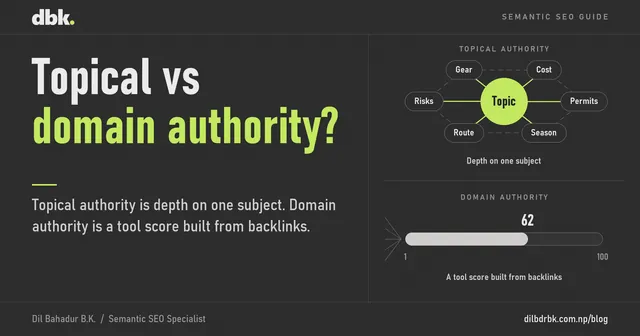
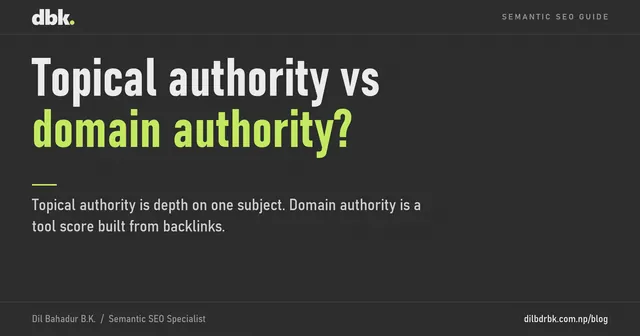
Topical authority post: text-only cover, hybrid summary intro

diff --git a/blog/topical-authority-vs-domain-authority/index.html b/blog/topical-authority-vs-domain-authority/index.html
@@ -214,7 +214,7 @@
     "height": 630
    },
    "inLanguage": "en",
-   "wordCount": 4806,
+   "wordCount": 4878,
    "timeRequired": "PT21M",
    "articleSection": "Topical Authority",
    "keywords": [
@@ -385,7 +385,7 @@
 </section>
 <section class="frame post-cover-frame">
   <div class="body">
-    <figure class="post-cover"><picture><source type="image/webp" srcset="/assets/img/blog/topical-authority-vs-domain-authority.webp?v=c0f706cd"><img src="/assets/img/blog/topical-authority-vs-domain-authority.jpg?v=86f2752e" width="1200" height="630" alt="Topical authority vs domain authority: one website covers a single topic in depth with connected pages, while a domain score rates the whole site by its backlinks." fetchpriority="high"></picture></figure>
+    <figure class="post-cover"><picture><source type="image/webp" srcset="/assets/img/blog/topical-authority-vs-domain-authority.webp?v=36b13cbe"><img src="/assets/img/blog/topical-authority-vs-domain-authority.jpg?v=6b294fbb" width="1200" height="630" alt="Topical authority vs domain authority: one website covers a single topic in depth with connected pages, while a domain score rates the whole site by its backlinks." fetchpriority="high"></picture></figure>
   </div>
 </section>
 <section class="frame post-main">
@@ -403,8 +403,9 @@
     </aside>
     <div class="prose post-body">
 <div class="post-answer"><p class="post-answer-label">Short answer</p><p>Topical authority is the depth and accuracy with which a website covers one subject, and domain authority is a score from 1 to 100 that SEO tools, such as Moz, calculate mainly from a site's backlinks. Google does not use Moz's Domain Authority or any other third-party score. Google does use links through PageRank and says that site-wide signals contribute to how it understands pages, so a site that ranks well needs both topical depth and relevant links.</p></div>
-<p>Moz introduced Domain Authority as a way to predict how likely a website is to rank compared with its competitors, and Ahrefs, Semrush and Majestic sell similar scores. Topical authority came from the semantic SEO field. Koray Tugberk Gubur of Holistic SEO defines it as a methodology to rank higher by covering connected topics and the queries they imply.</p>
-<p>This guide compares topical authority and domain authority from the core difference and the way each one is measured to Google's own statements, information retrieval research, the 2024 leaked documentation, a 7-step method and the measurements that matter. Google's documentation, the research papers and the SEO tool makers point the same way: no single authority score decides rankings, links still carry weight, and coverage of one topic makes a site relevant for that topic. Each part separates what Google states from what research shows and from what SEO practitioners interpret.</p>
+<p>Domain Authority is Moz's score from 1 to 100, built mainly from the number and quality of linking root domains, and Ahrefs Domain Rating, Semrush Authority Score and Majestic Trust Flow rate link strength the same way. Topical authority has no score. Holistic SEO defines it as a methodology to rank higher by covering connected topics and the queries they imply, and practitioners describe it through topical coverage and historical data.</p>
+<p>Google stated in 2016 and 2019 that it has no website authority score and does not use Domain Authority, yet PageRank remains one of its core ranking systems and site-wide signals contribute to how it understands pages. Google's topic authority system surfaces expert sources for news by topic, research from 1999 to 2002 found that authority computed per topic ranked pages more accurately than one global score, and the 2024 leaked documentation lists site-level attributes for topic focus, such as siteFocusScore.</p>
+<p>Topical depth carries the most weight for specific questions inside a niche, such as permit costs for one trek, and link strength carries more for broad, competitive searches. A site gains from both by planning a topical map, covering it answer-first, linking the pages into one network and earning links from relevant sites, such as trade associations, then tracking impressions across the topic's queries in Search Console.</p>
 <details class="post-toc" open>
 <summary>In this guide</summary>
 <nav aria-label="Table of contents"><ol>

diff --git a/index.html b/index.html
@@ -768,7 +768,7 @@
       <div class="res-panel" id="blog-posts" role="tabpanel" aria-labelledby="res-tab-blog">
         <p class="label res-nojs">Blog</p>
 <ul class="feature-posts">
-<li class="feature-card"><a href="/blog/topical-authority-vs-domain-authority/"><img src="/assets/img/blog/topical-authority-vs-domain-authority.webp?v=c0f706cd" width="1600" height="840" alt="" loading="lazy" decoding="async"><span class="feature-text"><span class="feature-tags"><span>Topical authority</span><span>Domain authority</span><span>Semantic SEO</span></span><span class="feature-meta"><time datetime="2026-10-28">28 October 2026</time><span>21 min read</span></span><span class="feature-title">Topical Authority vs Domain Authority: What Google Uses</span><span class="feature-desc">Topical authority vs domain authority: one is how deeply a site covers a subject, the other an SEO tool score built from backlinks. See what Google uses.</span><span class="feature-more">Read the guide</span></span></a></li>
+<li class="feature-card"><a href="/blog/topical-authority-vs-domain-authority/"><img src="/assets/img/blog/topical-authority-vs-domain-authority.webp?v=36b13cbe" width="1600" height="840" alt="" loading="lazy" decoding="async"><span class="feature-text"><span class="feature-tags"><span>Topical authority</span><span>Domain authority</span><span>Semantic SEO</span></span><span class="feature-meta"><time datetime="2026-10-28">28 October 2026</time><span>21 min read</span></span><span class="feature-title">Topical Authority vs Domain Authority: What Google Uses</span><span class="feature-desc">Topical authority vs domain authority: one is how deeply a site covers a subject, the other an SEO tool score built from backlinks. See what Google uses.</span><span class="feature-more">Read the guide</span></span></a></li>
 <li class="feature-card"><a href="/blog/entity-seo-vs-keyword-seo/"><img src="/assets/img/blog/entity-seo-vs-keyword-seo.webp?v=57fe50bc" width="1600" height="840" alt="" loading="lazy" decoding="async"><span class="feature-text"><span class="feature-tags"><span>Entity SEO</span><span>Keyword research</span><span>AI Overviews</span></span><span class="feature-meta"><time datetime="2026-10-19">19 October 2026</time><span>27 min read</span></span><span class="feature-title">Entity SEO vs Keyword SEO: What Changes and What Stays</span><span class="feature-desc">Entity SEO vs keyword SEO: keywords show how people search, entities show what they mean. See the differences, where each works and how to combine them.</span><span class="feature-more">Read the guide</span></span></a></li>
 <li class="feature-card"><a href="/blog/what-is-entity-seo/"><img src="/assets/img/blog/what-is-entity-seo.webp?v=6ea2b66a" width="1600" height="840" alt="" loading="lazy" decoding="async"><span class="feature-text"><span class="feature-tags"><span>Entity SEO</span><span>Knowledge Graph</span><span>Structured data</span></span><span class="feature-meta"><time datetime="2026-10-14">14 October 2026</time><span>16 min read</span></span><span class="feature-title">What Is Entity SEO? A Practical Guide</span><span class="feature-desc">Entity SEO helps search engines identify the people, places, products and concepts on your site. Learn how it works and how to do it in 6 steps.</span><span class="feature-more">Read the guide</span></span></a></li>
 </ul>

diff --git a/blog/index.html b/blog/index.html
@@ -208,7 +208,7 @@
 <section class="frame">
   <div class="rail"><p class="label"><span class="idx">01</span> Posts</p></div>
   <div class="body">
-<ul class="post-list"><li class="post-row"><a href="/blog/topical-authority-vs-domain-authority/"><img class="post-thumb" src="/assets/img/blog/topical-authority-vs-domain-authority-thumb.webp?v=32210e49" width="640" height="336" alt="" loading="lazy" decoding="async"><span class="post-row-text"><span class="post-row-meta"><time datetime="2026-10-28">28 October 2026</time><span>21 min read</span></span><span class="post-title">Topical Authority vs Domain Authority: What Google Uses</span><span class="post-desc">Topical authority vs domain authority: one is how deeply a site covers a subject, the other an SEO tool score built from backlinks. See what Google uses.</span></span></a></li>
+<ul class="post-list"><li class="post-row"><a href="/blog/topical-authority-vs-domain-authority/"><img class="post-thumb" src="/assets/img/blog/topical-authority-vs-domain-authority-thumb.webp?v=c840f86a" width="640" height="336" alt="" loading="lazy" decoding="async"><span class="post-row-text"><span class="post-row-meta"><time datetime="2026-10-28">28 October 2026</time><span>21 min read</span></span><span class="post-title">Topical Authority vs Domain Authority: What Google Uses</span><span class="post-desc">Topical authority vs domain authority: one is how deeply a site covers a subject, the other an SEO tool score built from backlinks. See what Google uses.</span></span></a></li>
 <li class="post-row"><a href="/blog/entity-seo-vs-keyword-seo/"><img class="post-thumb" src="/assets/img/blog/entity-seo-vs-keyword-seo-thumb.webp?v=ff41d5dc" width="640" height="336" alt="" loading="lazy" decoding="async"><span class="post-row-text"><span class="post-row-meta"><time datetime="2026-10-19">19 October 2026</time><span>27 min read</span></span><span class="post-title">Entity SEO vs Keyword SEO: What Changes and What Stays</span><span class="post-desc">Entity SEO vs keyword SEO: keywords show how people search, entities show what they mean. See the differences, where each works and how to combine them.</span></span></a></li>
 <li class="post-row"><a href="/blog/what-is-entity-seo/"><img class="post-thumb" src="/assets/img/blog/what-is-entity-seo-thumb.webp?v=28dc48ba" width="640" height="336" alt="" loading="lazy" decoding="async"><span class="post-row-text"><span class="post-row-meta"><time datetime="2026-10-14">14 October 2026</time><span>16 min read</span></span><span class="post-title">What Is Entity SEO? A Practical Guide</span><span class="post-desc">Entity SEO helps search engines identify the people, places, products and concepts on your site. Learn how it works and how to do it in 6 steps.</span></span></a></li></ul>
   </div>

diff --git a/_src/make_images.py b/_src/make_images.py
@@ -245,14 +245,15 @@ def pill(d, cx, cy, text, f, fill=BG, outline=LINE_STRONG, ink=INK, h=46):
     d.text((cx, cy), text, font=f, fill=ink, anchor="mm")
 
 
-def feature_canvas(W, H, split, question, answer, note=None, label="ENTITY SEO GUIDE"):
+def feature_canvas(W, H, split, question, answer, note=None, label="ENTITY SEO GUIDE", divider=True):
     """Shared layout: logo and label on top, question and answer on the left, footer below.
     `question` is two lines; the second one is lime."""
     im = Image.new("RGB", (px(W), px(H)), BG)
     d = ImageDraw.Draw(im)
     for y in (64, H - 64):
         d.line([(0, px(y)), (px(W), px(y))], fill=LINE, width=R)
-    d.line([(px(split), px(64)), (px(split), px(H - 64))], fill=LINE, width=R)
+    if divider:
+        d.line([(px(split), px(64)), (px(split), px(H - 64))], fill=LINE, width=R)
     logo = to_height(wordmark(), px(30))
     im.paste(logo, (px(60), px(17)), logo)
     tracked(d, (px(W - 60), px(32)), label, bahn(15, "SemiBold"), MUTED, px(3), anchor="rm")
@@ -457,10 +458,9 @@ def blog_images():
                              "Write answer-first", "Link and mark up", "Measure both"], step=72)
     save_scaled(card, "entity-keyword-workflow.webp", (1200, 675), "WEBP", quality=84, method=6)
 
-    cover, d = feature_canvas(1200, 630, 690, ("Topical vs", "domain authority?"),
+    cover, d = feature_canvas(1200, 630, 870, ("Topical authority vs", "domain authority?"),
                               "Topical authority is depth on one subject. Domain authority is a tool score built from backlinks.",
-                              label="SEMANTIC SEO GUIDE")
-    authority_compare(d)
+                              label="SEMANTIC SEO GUIDE", divider=False)
     save_scaled(cover, "topical-authority-vs-domain-authority.jpg", (1200, 630), "JPEG", quality=88, optimize=True, progressive=True)
     save_scaled(cover, "topical-authority-vs-domain-authority.webp", (1600, 840), "WEBP", quality=82, method=6)
     save_scaled(cover, "topical-authority-vs-domain-authority-thumb.webp", (640, 336), "WEBP", quality=80, method=6)

diff --git a/_src/posts/topical-authority-vs-domain-authority.md b/_src/posts/topical-authority-vs-domain-authority.md
@@ -64,9 +64,11 @@ Meta Description: Topical authority vs domain authority: one is how deeply a sit
 [[answer]]
 Topical authority is the depth and accuracy with which a website covers one subject, and domain authority is a score from 1 to 100 that SEO tools, such as Moz, calculate mainly from a site's backlinks. Google does not use Moz's Domain Authority or any other third-party score. Google does use links through PageRank and says that site-wide signals contribute to how it understands pages, so a site that ranks well needs both topical depth and relevant links.
 
-Moz introduced Domain Authority as a way to predict how likely a website is to rank compared with its competitors, and Ahrefs, Semrush and Majestic sell similar scores. Topical authority came from the semantic SEO field. Koray Tugberk Gubur of Holistic SEO defines it as a methodology to rank higher by covering connected topics and the queries they imply.
+Domain Authority is Moz's score from 1 to 100, built mainly from the number and quality of linking root domains, and Ahrefs Domain Rating, Semrush Authority Score and Majestic Trust Flow rate link strength the same way. Topical authority has no score. Holistic SEO defines it as a methodology to rank higher by covering connected topics and the queries they imply, and practitioners describe it through topical coverage and historical data.
 
-This guide compares topical authority and domain authority from the core difference and the way each one is measured to Google's own statements, information retrieval research, the 2024 leaked documentation, a 7-step method and the measurements that matter. Google's documentation, the research papers and the SEO tool makers point the same way: no single authority score decides rankings, links still carry weight, and coverage of one topic makes a site relevant for that topic. Each part separates what Google states from what research shows and from what SEO practitioners interpret.
+Google stated in 2016 and 2019 that it has no website authority score and does not use Domain Authority, yet PageRank remains one of its core ranking systems and site-wide signals contribute to how it understands pages. Google's topic authority system surfaces expert sources for news by topic, research from 1999 to 2002 found that authority computed per topic ranked pages more accurately than one global score, and the 2024 leaked documentation lists site-level attributes for topic focus, such as siteFocusScore.
+
+Topical depth carries the most weight for specific questions inside a niche, such as permit costs for one trek, and link strength carries more for broad, competitive searches. A site gains from both by planning a topical map, covering it answer-first, linking the pages into one network and earning links from relevant sites, such as trade associations, then tracking impressions across the topic's queries in Search Console.
 
 [[toc]]
 
